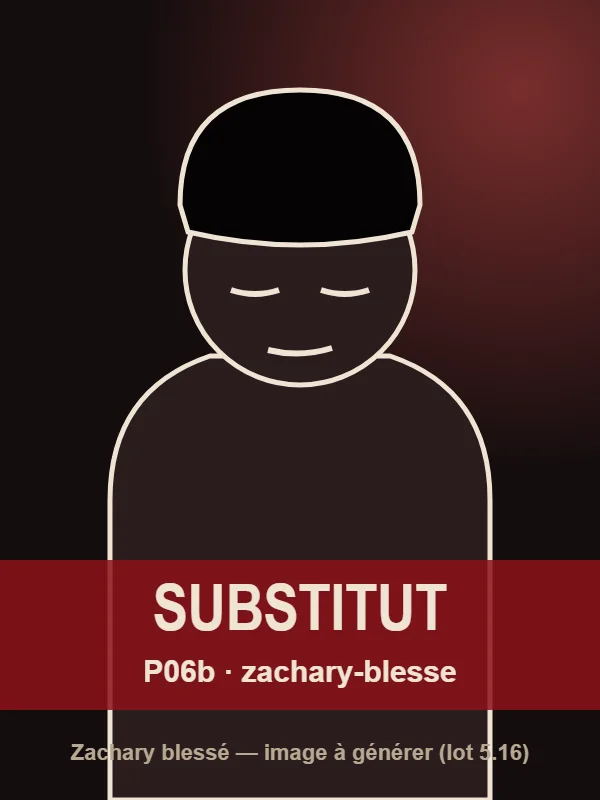
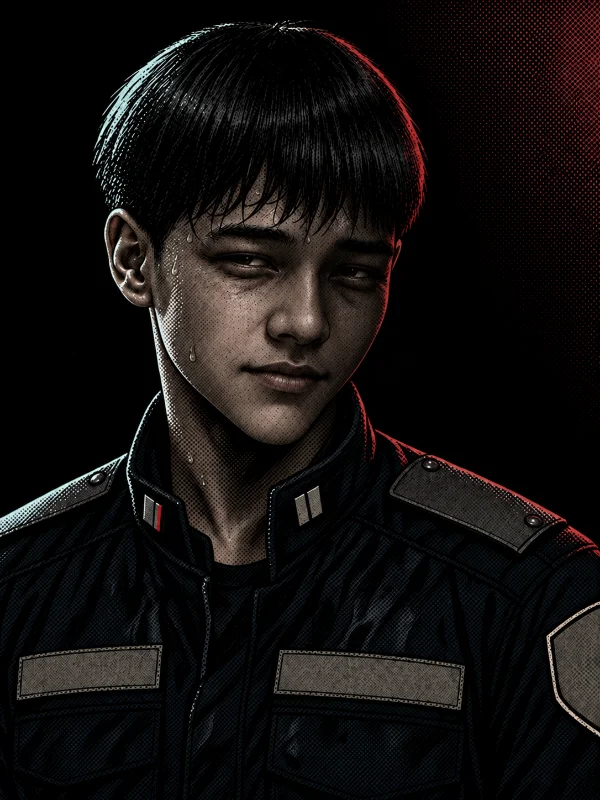
Update zach sombre

diff --git a/docs/art/image-generation/MANIFEST.md b/docs/art/image-generation/MANIFEST.md
@@ -126,7 +126,7 @@ donc pas de fiche dédiée. Voir `src/data/backdrops.ts`.
 | ID | Image | Fichier livré | Références d'identité | État |
 |---|---|---|---|---|
 | P19 | L'inconnue du Blue Purple, visage en partie dans l'ombre (locuteur `inconnue`, lot 5.14) | `public/assets/portraits/inconnue.webp` | `Chapter2/BluePurpleRencontre.png` | à valider |
-| P06b | Zachary blessé, variante de P06 au même cadrage : yeux mi-clos, teint cireux, sueur, un sourire qui s'efface, sans sang (variante `blesse` du locuteur `zachary`, ADR 0028, lot 5.16) | `public/assets/portraits/zachary-blesse.webp` | portrait P06 livré (identité et cadrage), `zacharie.png` ; briefs D35 (blessure sans sang) et D29 (lumière des égouts) | à faire (substitut posé) |
+| P06b | Zachary blessé, variante de P06 au même cadrage : yeux mi-clos, teint cireux, sueur, un sourire qui s'efface, sans sang (variante `blesse` du locuteur `zachary`, ADR 0028, lot 5.16) | `public/assets/portraits/zachary-blesse.webp` | portrait P06 livré (identité et cadrage), `zacharie.png` ; briefs D35 (blessure sans sang) et D29 (lumière des égouts) | à valider |
 
 ### Décors de scène
 
